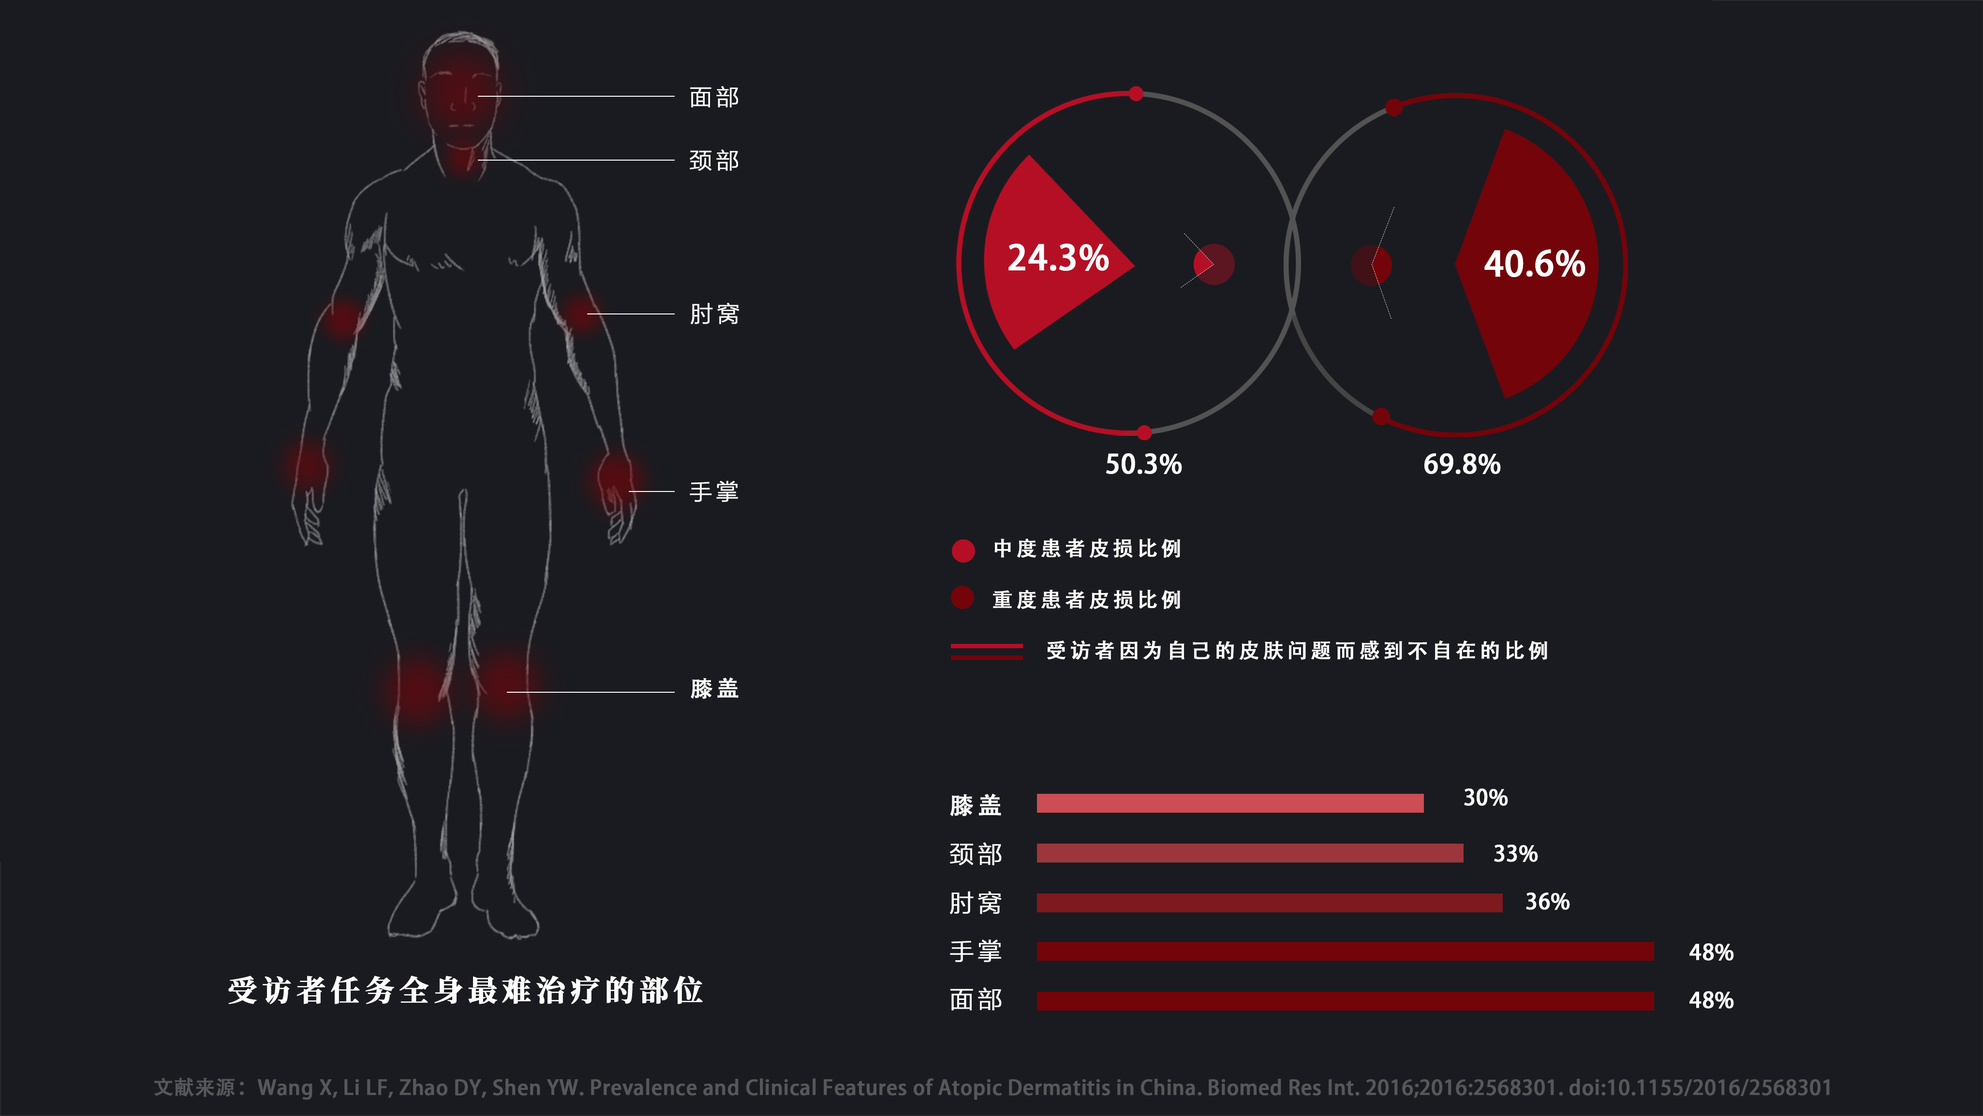
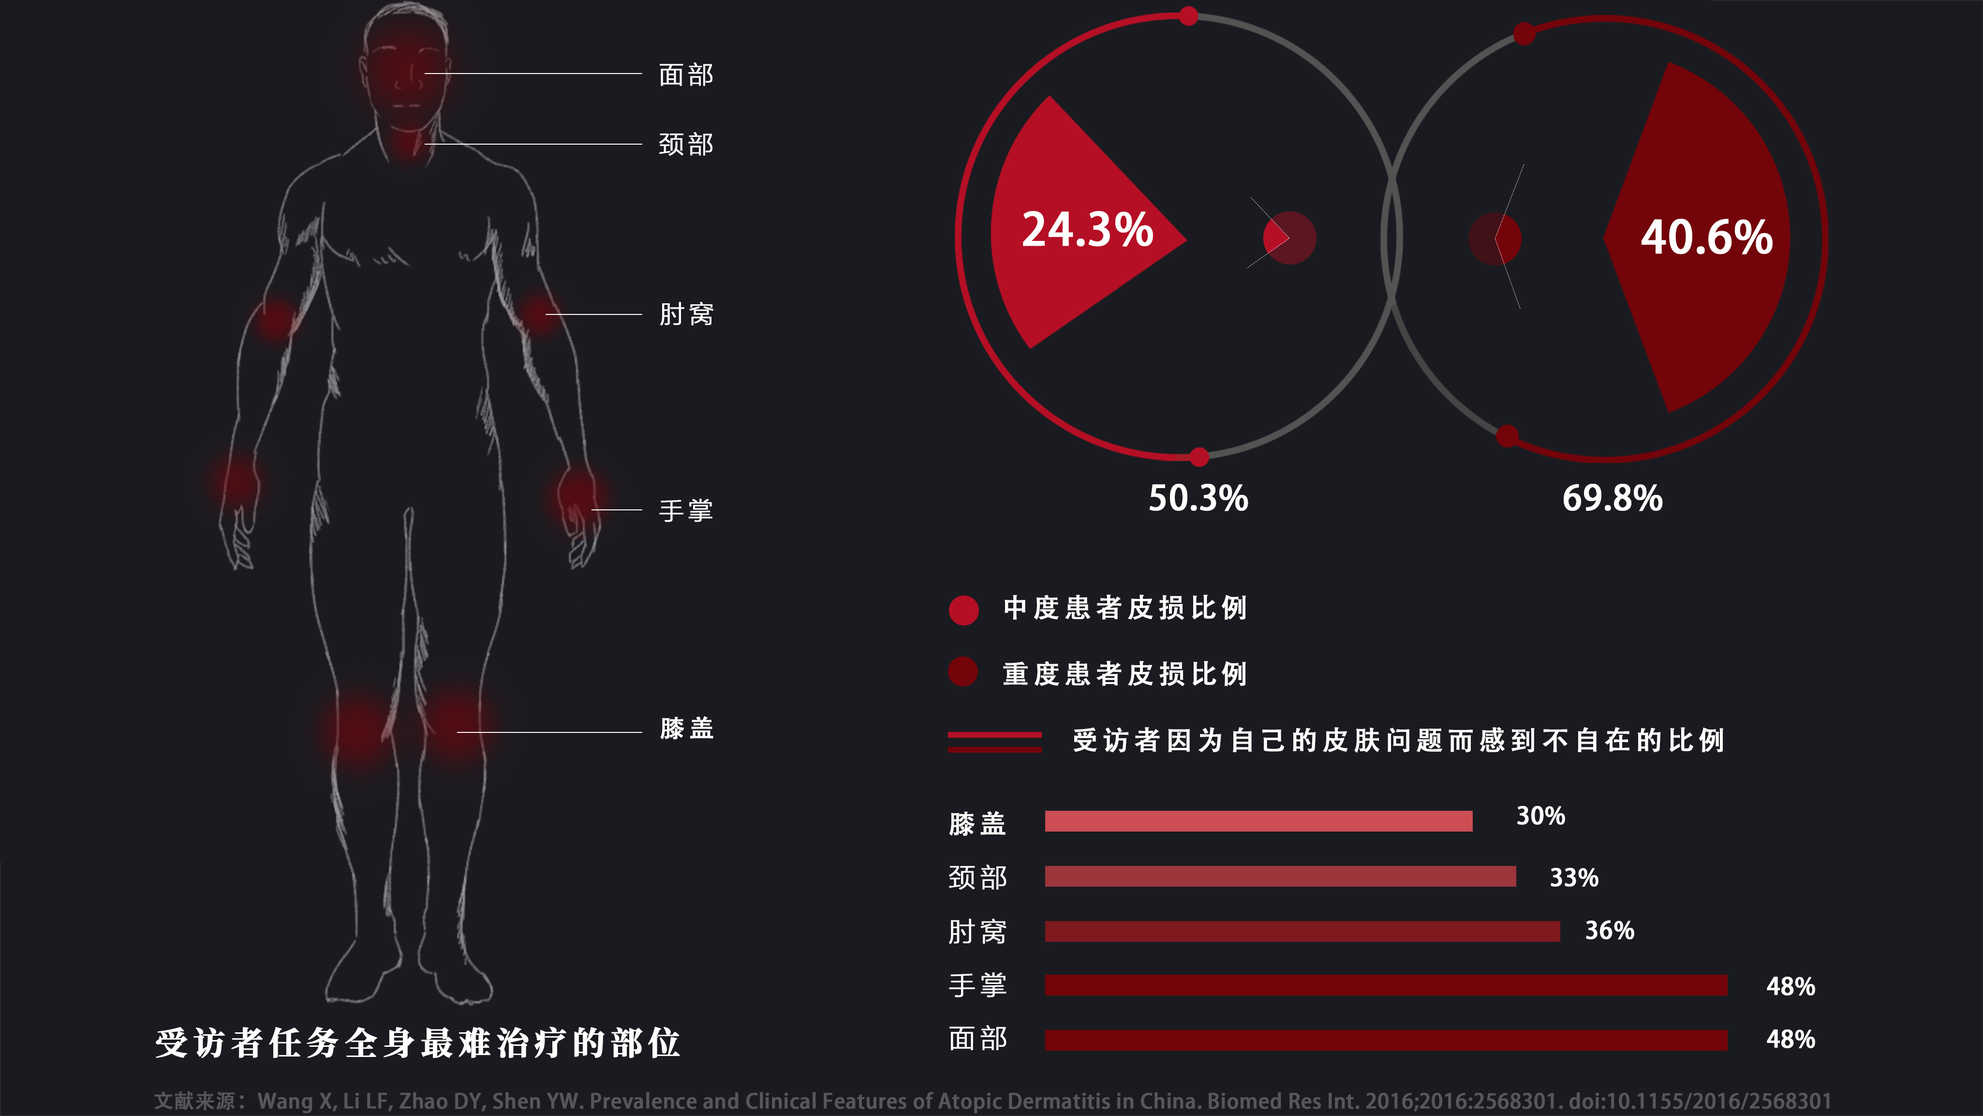
renew3

diff --git a/css/home-page.min.css b/css/home-page.min.css
@@ -1,1 +1,1 @@
-body{margin:auto}body .show{opacity:0}body>div{background-color:#1C1B21;width:100vw}body>div:nth-child(1)>div:nth-child(1){height:864px}body>div:nth-child(1)>div:nth-child(1) img{width:100vw}body>div:nth-child(1)>div:nth-child(2){overflow:hidden}body>div:nth-child(1)>div:nth-child(2)>div{width:1024px;margin:auto}body>div:nth-child(1)>div:nth-child(2)>div p{margin:auto;text-align:center;line-height:36px;font-size:16px;white-space:inherit;color:white;height:36px}body>div:nth-child(1)>div:nth-child(2)>div:nth-child(1){height:500px;margin-top:50px}body>div:nth-child(1)>div:nth-child(2)>div:nth-child(1) .lastp{text-align:right;margin-right:80px}body>div:nth-child(1)>div:nth-child(2)>div:nth-child(2) p{font-weight:bold;color:red}body>div:nth-child(1)>div:nth-child(2)>div:nth-child(2) .leftp{text-align:left}body>div:nth-child(1)>div:nth-child(2)>div:nth-child(2) .rightp{text-align:right}body>div:nth-child(1)>div:nth-child(2)>div:nth-child(2) .bigp{font-size:35px;font-weight:lighter}body>div:nth-child(1)>div:nth-child(2)>div:nth-child(2) .bigptwo{font-size:35px}body>div:nth-child(1)>div:nth-child(2)>div:nth-child(2) .bigest{font-weight:lighter;font-size:50px;height:60px}body>div:nth-child(1)>div:nth-child(2)>div:nth-child(3) p{width:724px}body>div:nth-child(1)>div:nth-child(3) img{width:1536px}body>div:nth-child(1)>div:nth-child(4){text-align:center}body>div:nth-child(1)>div:nth-child(4) p{margin:auto;text-align:center;line-height:36px;font-size:16px;white-space:inherit;color:white;height:36px}body>div:nth-child(2){position:fixed;z-index:-1;top:0px}body>div:nth-child(2) img{width:100vw;height:100%}body>div:nth-child(2) .blackOut1{width:100vw;height:100vh;display:none;opacity:1;position:fixed;top:0px;left:0;background-color:#272828;z-index:5}body .w{width:1024px;margin:0 auto}body .fr{text-align:right}body .fixedBanner1{height:100vh}body .box-2{margin-top:100vh;background-color:#272828;line-height:36px}body .box-2 .content-box .tags-box{text-align:center;color:#ffffff;font-size:18px;font-weight:800;padding-top:30px}body .box-2 .content-box .tags-box p{margin:auto}body .box-2 .content-box .article-box{padding:10px 150px;box-sizing:border-box;font-size:16px;color:#F5F6F8}body .box-2 .content-box .article-box p{display:block;opacity:1}body .box-2 .content-box .article-box .data-box{width:100%;margin:50px 0;display:flex;justify-content:center;flex-wrap:wrap}body .fixedBanner2{position:fixed;z-index:-2;top:0px}body .fixedBanner2 img{width:100vw;height:100vh}body .fixedBanner2 .blackOut2{width:100vw;height:100vh;display:none;opacity:1;position:fixed;top:0px;left:0;background-color:#272828;z-index:5}body .content{margin-top:100vh;width:100vw;background-color:#1C1B21}body .content .content-int{width:1252px;margin:0 auto;padding:10px 200px;box-sizing:border-box}body .samecontent{width:100vw;background-color:#1C1B21;margin-top:-48px;padding-bottom:30px}body .samecontent .samecon-int{width:1024px;margin:0 auto;padding:0 100px;box-sizing:border-box}body .bold{font-weight:bolder;margin-top:40px}body p{color:#fff;margin:48px 0}body p span{font-family:custom_27203;font-style:normal;font-weight:300;line-height:25px;display:block}body p span i{font-style:normal;color:#f5cb1c;font-weight:bold}body .msg1{width:100%;margin:60px 0;margin-bottom:110px}body .msg1 img{width:100%}body .msg2{width:100%;margin:60px 0;margin-bottom:110px}body .msg2 img{width:100%}body #ifr{height:330px}body .wujin{margin-bottom:-100px}body iframe{height:430px;width:590px;margin:50px 143px;left:0;right:0;margin-top:40px}body .img1{width:100%;position:fixed;z-index:-3;top:0px}body .img1 img{width:100%;height:100vh}body .img1 .blackOut3{width:100vw;height:100vh;display:none;opacity:1;position:fixed;top:0px;left:0;background-color:#272828;z-index:5}body .data-box2{padding:50px 315px;box-sizing:border-box;font-size:16px;color:#F5F6F8;margin-top:-20px}body .data-box2 .info-web{display:flex;justify-content:center;height:500px}body .data-box2 .info-web .scroll-box{overflow:hidden;width:407px;position:relative}body .data-box2 .info-web .scroll-box .scrollShow-info{height:500px;overflow-x:hidden;overflow-y:scroll;position:absolute;right:-18px;line-height:80px}body .data-box2 .info-web .scroll-box .scrollShow-info p{display:block;height:80px;margin:80px 0}body .data-box2 .info-web iframe{width:382px !important;height:405px !important;margin:0 !important}body .bigOne{width:100%;font-size:25px;line-height:33px;font-weight:bolder;text-align:center}body #ecircle{margin-bottom:0px}body .fa-navicon::before,body .fa-reorder::before,body .fa-bars::before{content:"\f0c9";background-color:#fff;background-position:center}body #open{width:60px;height:60px;display:block;border-radius:50%;border:1px solid #ccc;position:absolute;top:20px;left:-80px;background-color:#fff}body #open:hover{background-color:#1C1B21}body #open>i{position:absolute;left:24px;top:23px}#skip1,#skip2,#skip3,#skip4{height:100%;width:100%;display:inline-block;position:relative;z-index:-99;background-color:opacify}#aside{width:0px;height:100vh;position:fixed;top:0;right:0;background-color:#1C1B21}#aside>p{font-size:35px;width:100%;text-align:center}ul{list-style:none;padding:0;margin:0;width:100%}ul li{width:100%;height:141px;position:relative;background-position:center;background-size:100%;background-repeat:no-repeat}ul li>span{position:absolute;bottom:20px;right:-40px;display:block;width:25px;height:25px;border-radius:50%;text-align:center;line-height:25px;background-color:#fff}ul li:nth-child(1){background-image:url("../images/总标题.jpg")}ul li:nth-child(2){background-image:url("../images/小标题1.jpg")}ul li:nth-child(3){background-image:url("../images/小标题2.jpg")}ul li:nth-child(4){background-image:url("../images/小标题3.jpg")}footer{height:600px;width:100vw;background-image:url("../images/底部.jpg");background-position:-300px;color:white;display:flex;align-items:center}footer div{width:85%;height:70%;margin-left:20px}footer div h1{margin:auto}footer div p{margin:30px 0}.bktotop{width:100vw;height:200px;background-color:black;color:white;position:relative}.bktotop h2{margin:auto;text-align:center;padding-top:30px}.bktotop img{position:absolute;left:680px;top:80px}.tt{height:330px}
+body{margin:auto}body .show{opacity:0}body>div{background-color:#1C1B21;width:100vw}body>div:nth-child(1)>div:nth-child(1){height:864px}body>div:nth-child(1)>div:nth-child(1) img{width:100vw}body>div:nth-child(1)>div:nth-child(2){overflow:hidden}body>div:nth-child(1)>div:nth-child(2)>div{width:1024px;margin:auto}body>div:nth-child(1)>div:nth-child(2)>div p{margin:auto;text-align:center;line-height:36px;font-size:16px;white-space:inherit;color:white;height:36px}body>div:nth-child(1)>div:nth-child(2)>div:nth-child(1){height:500px;margin-top:50px}body>div:nth-child(1)>div:nth-child(2)>div:nth-child(1) .lastp{text-align:right;margin-right:80px}body>div:nth-child(1)>div:nth-child(2)>div:nth-child(2) p{font-weight:bold;color:red}body>div:nth-child(1)>div:nth-child(2)>div:nth-child(2) .leftp{text-align:left}body>div:nth-child(1)>div:nth-child(2)>div:nth-child(2) .rightp{text-align:right}body>div:nth-child(1)>div:nth-child(2)>div:nth-child(2) .bigp{font-size:35px;font-weight:lighter}body>div:nth-child(1)>div:nth-child(2)>div:nth-child(2) .bigptwo{font-size:35px}body>div:nth-child(1)>div:nth-child(2)>div:nth-child(2) .bigest{font-weight:lighter;font-size:50px;height:60px}body>div:nth-child(1)>div:nth-child(2)>div:nth-child(3) p{width:724px}body>div:nth-child(1)>div:nth-child(3) img{width:1536px}body>div:nth-child(1)>div:nth-child(4){text-align:center}body>div:nth-child(1)>div:nth-child(4) p{margin:auto;text-align:center;line-height:36px;font-size:16px;white-space:inherit;color:white;height:36px}body>div:nth-child(2){position:fixed;z-index:-1;top:0px}body>div:nth-child(2) img{width:100vw;height:100%}body>div:nth-child(2) .blackOut1{width:100vw;height:100vh;display:none;opacity:1;position:fixed;top:0px;left:0;background-color:#272828;z-index:5}body .w{width:1024px;margin:0 auto}body .fr{text-align:right;padding-right:120px;font-size:13px}body .fixedBanner1{height:100vh}body .box-2{margin-top:100vh;background-color:#272828;line-height:36px}body .box-2 .content-box .tags-box{text-align:center;color:#ffffff;font-size:18px;font-weight:800;padding-top:45px}body .box-2 .content-box .tags-box p{margin:auto}body .box-2 .content-box .article-box{padding:10px 150px;box-sizing:border-box;font-size:16px;color:#F5F6F8;padding-top:20px}body .box-2 .content-box .article-box p{display:block;opacity:1}body .box-2 .content-box .article-box .data-box{width:100%;margin:30px 0;display:flex;justify-content:center;flex-wrap:wrap}body .box-2 .content-box .article-box .data-box .data-title{width:100%;text-align:right;font-size:10px;padding-right:60px}body .fixedBanner2{position:fixed;z-index:-2;top:0px}body .fixedBanner2 img{width:100vw;height:100vh}body .fixedBanner2 .blackOut2{width:100vw;height:100vh;display:none;opacity:1;position:fixed;top:0px;left:0;background-color:#272828;z-index:5}body .content{margin-top:100vh;width:100vw;background-color:#1C1B21}body .content .content-int{width:1252px;margin:0 auto;padding:10px 200px;box-sizing:border-box}body .samecontent{width:100vw;background-color:#1C1B21;margin-top:-48px;padding-bottom:30px}body .samecontent .samecon-int{width:1024px;margin:0 auto;padding:0 100px;box-sizing:border-box}body .bold{font-weight:bolder;margin-top:40px}body p{color:#fff;margin:48px 0}body p span{font-family:custom_27203;font-style:normal;font-weight:300;line-height:25px;display:block}body p span i{font-style:normal;color:#f5cb1c;font-weight:bold}body .msg1{width:100%}body .msg1 img{width:100%}body .msg2{width:100%;margin:60px 0;margin-bottom:110px}body .msg2 img{width:100%}body #ifr{height:330px}body .wujin{margin-bottom:-100px}body iframe{height:420px;width:580px !important;margin:50px 143px;left:0;right:0;margin-top:40px}body .img1{width:100%;position:fixed;z-index:-3;top:0px}body .img1 img{width:100%;height:100vh}body .img1 .blackOut3{width:100vw;height:100vh;display:none;opacity:1;position:fixed;top:0px;left:0;background-color:#272828;z-index:5}body .data-box2{padding:50px 267px;box-sizing:border-box;font-size:16px;color:#F5F6F8;margin-top:-20px}body .data-box2 .info-web{display:flex;justify-content:center;height:500px}body .data-box2 .info-web .scroll-box{overflow:hidden;width:570px;position:relative;text-align:center}body .data-box2 .info-web .scroll-box .scrollShow-info{height:500px;overflow-x:hidden;overflow-y:scroll;position:absolute;right:-18px;line-height:80px}body .data-box2 .info-web .scroll-box .scrollShow-info p{display:block;height:80px;margin:80px 0}body .data-box2 .info-web iframe{width:370px !important;height:390px !important;margin:0 !important}body .bigOne{width:100%;font-size:25px;line-height:33px;font-weight:bolder;text-align:center}body #ecircle{margin-bottom:0px}body .fa-navicon::before,body .fa-reorder::before,body .fa-bars::before{content:"\f0c9";background-color:#fff;background-position:center}body #open{width:60px;height:60px;display:block;border-radius:50%;border:1px solid #ccc;position:absolute;top:20px;left:-80px;background-color:#fff}body #open:hover{background-color:#1C1B21}body #open>i{position:absolute;left:24px;top:23px}#skip1,#skip2,#skip3,#skip4{height:100%;width:100%;display:inline-block;position:relative;z-index:-99;background-color:opacify}#aside{width:0px;height:100vh;position:fixed;top:0;right:0;background-color:#1C1B21}#aside>p{font-size:35px;width:100%;text-align:center}ul{list-style:none;padding:0;margin:0;width:100%}ul li{width:100%;height:141px;position:relative;background-position:center;background-size:100%;background-repeat:no-repeat}ul li>span{position:absolute;bottom:20px;right:-40px;display:block;width:25px;height:25px;border-radius:50%;text-align:center;line-height:25px;background-color:#fff}ul li:nth-child(1){background-image:url("../images/总标题.jpg")}ul li:nth-child(2){background-image:url("../images/小标题1.jpg")}ul li:nth-child(3){background-image:url("../images/小标题2.jpg")}ul li:nth-child(4){background-image:url("../images/小标题3.jpg")}footer{height:600px;width:100vw;background-image:url("../images/底部.jpg");background-position:-300px;color:white;display:flex;align-items:center}footer div{width:85%;height:70%;margin-left:20px}footer div h1{margin:auto}footer div p{margin:30px 0}.bktotop{width:100vw;height:200px;background-color:black;color:white;display:flex;flex-wrap:wrap;justify-content:center}.bktotop h2{margin:auto;text-align:center;padding-top:30px;width:100%}.tt{height:310px}

diff --git a/scss/home-page.scss b/scss/home-page.scss
@@ -113,6 +113,8 @@ body {
     }
     .fr {
         text-align: right;
+        padding-right: 120px;
+        font-size: 13px;
     }
     .fixedBanner1{
         height: 100vh;
@@ -127,7 +129,7 @@ body {
                 color: #ffffff;
                 font-size: 18px;
                 font-weight: 800;
-                padding-top: 30px;
+                padding-top: 45px;
                 p {
                     margin: auto;
                 }
@@ -137,16 +139,23 @@ body {
                 box-sizing: border-box;
                 font-size: 16px;
                 color: #F5F6F8;
+                padding-top: 20px;
                 p {
                     display: block;
                     opacity: 1;
                 }
                 .data-box {
                     width: 100%;
-                    margin: 50px 0;
+                    margin: 30px 0;
                     display: flex;
                     justify-content: center;
                     flex-wrap: wrap;
+                    .data-title{
+                        width: 100%;
+                        text-align: right;
+                        font-size: 10px;
+                        padding-right: 60px;
+                    }
                 }
             }
         }
@@ -217,8 +226,6 @@ body {
     }
     .msg1 {
         width: 100%;
-        margin: 60px 0;
-        margin-bottom: 110px;
         img {
             width: 100%;
         }
@@ -238,10 +245,9 @@ body {
         margin-bottom: -100px;
     }
     iframe {
-        height: 430px;
-        width: 590px;
+        height: 420px;
+        width: 580px !important;
         margin: 50px 143px;
-        // position: absolute;
         left: 0;
         right: 0;
         margin-top: 40px;
@@ -269,7 +275,7 @@ body {
     }
     // 左边文字 右边数据图
     .data-box2 {
-        padding: 50px 315px;
+        padding: 50px 267px;
         box-sizing: border-box;
         font-size: 16px;
         color: #F5F6F8;
@@ -280,8 +286,9 @@ body {
             height: 500px;
             .scroll-box {
                 overflow: hidden;
-                width: 407px;
+                width: 570px;
                 position: relative;
+                text-align: center;
                 .scrollShow-info {
                     height: 500px;
                     overflow-x: hidden;
@@ -297,8 +304,8 @@ body {
                 }
             }
             iframe {
-                width: 382px !important;
-                height: 405px !important;
+                width: 370px !important;
+                height: 390px !important;
                 margin: 0 !important;
             }
         }
@@ -442,19 +449,17 @@ footer {
     height: 200px;
     background-color: black;
     color: white;
-    position: relative;
+    display: flex;
+    flex-wrap: wrap;
+    justify-content: center;
     h2 {
         margin: auto;
         text-align: center;
         padding-top: 30px;
-    }
-    img {
-        position: absolute;
-        left: 680px;
-        top: 80px;
+        width: 100%;
     }
 }
 
 .tt {
-    height: 330px;
+    height: 310px;
 }

diff --git a/html/chinaad.html b/html/chinaad.html
@@ -99,8 +99,8 @@
                 </p>
                 <div class="data-box">
                     <div class="info-web">
-                        <iframe src="https://dycharts.com/xshow/index.html?id=c_a8030be03404a190205c783e5c29aef1"
-                            width="600" height="456" scrolling="no" frameborder="0" align=""></iframe>
+                        <iframe src="https://dycharts.com/xshow/index.html?id=c_179650a33514dba5477add4469682f6f" width="500"
+                                height="380" scrolling="no" frameborder="0" align=""></iframe>
                     </div>
                     <div class="data-title">数据来源：知网公开数据整理</div>
                 </div>
@@ -188,8 +188,8 @@
                     睡眠不⾜会导致更⾼的焦虑、抑郁和多动症发病率。[4]
                 </span>
             </p>
-            <iframe id="circle" src="https://dycharts.com/xshow/index.html?id=c_a69b7489262a2c4ef4f07cb1e7661d1d"
-                width="600" height="453" scrolling="no" frameborder="0" align=""></iframe>
+            <iframe src="https://dycharts.com/xshow/index.html?id=c_0dc0d260d84aca34c812cf8a331ec6fb" width="600"
+                    height="453" scrolling="no" frameborder="0" align=""></iframe>
             <p>
                 <span>
                     持续的疲劳使得工作效率很难提高， 无法停止的抓挠让你难以完成任何任务。
@@ -338,7 +338,7 @@
         <div class="info-web">
             <div class="scroll-box">
                 <div class="scrollShow-info">
-                    <p>2017-12-16中国医疗保健国际交流促进会“特应性皮炎诊疗中心”落户哈尔滨</p>
+                    <p style="margin-top: 0px;padding-right: 15px;">2017-12-16中国医疗保健国际交流促进会“特应性皮炎诊疗中心”落户哈尔滨</p>
                     <p> 2019首届全国湿疹皮炎皮肤过敏学术会议</p>
                     <p> 2019 大范围关于“世界过敏日”暨“特应性皮炎关爱日”报道</p>
                     <p> 2020年5月关爱社区“中国AD之家”成立</p>
@@ -372,7 +372,7 @@
                 </span>
             </p>
             <iframe src="https://dycharts.com/xshow/index.html?id=c_abdf1b19582fa6e59b6264dc4c7d4e9b" width="600"
-                height="470" scrolling="no" frameborder="0" align=""></iframe>
+                    height="453" scrolling="no" frameborder="0" align=""></iframe>
             <iframe src="https://dycharts.com/xshow/index.html?id=c_6f0bbbe169953335196f0eededa4b8c7" width="600"
                 height="470" scrolling="no" frameborder="0" align=""></iframe>
             <p>

diff --git a/css/home-page.css b/css/home-page.css
@@ -129,6 +129,8 @@ body .w {
 
 body .fr {
   text-align: right;
+  padding-right: 120px;
+  font-size: 13px;
 }
 
 body .fixedBanner1 {
@@ -146,7 +148,7 @@ body .box-2 .content-box .tags-box {
   color: #ffffff;
   font-size: 18px;
   font-weight: 800;
-  padding-top: 30px;
+  padding-top: 45px;
 }
 
 body .box-2 .content-box .tags-box p {
@@ -158,6 +160,7 @@ body .box-2 .content-box .article-box {
   box-sizing: border-box;
   font-size: 16px;
   color: #F5F6F8;
+  padding-top: 20px;
 }
 
 body .box-2 .content-box .article-box p {
@@ -167,10 +170,17 @@ body .box-2 .content-box .article-box p {
 
 body .box-2 .content-box .article-box .data-box {
   width: 100%;
-  margin: 50px 0;
+  margin: 30px 0;
   display: flex;
   justify-content: center;
   flex-wrap: wrap;
+}
+
+body .box-2 .content-box .article-box .data-box .data-title {
+  width: 100%;
+  text-align: right;
+  font-size: 10px;
+  padding-right: 60px;
 }
 
 body .fixedBanner2 {
@@ -249,8 +259,6 @@ body p span i {
 
 body .msg1 {
   width: 100%;
-  margin: 60px 0;
-  margin-bottom: 110px;
 }
 
 body .msg1 img {
@@ -276,8 +284,8 @@ body .wujin {
 }
 
 body iframe {
-  height: 430px;
-  width: 590px;
+  height: 420px;
+  width: 580px !important;
   margin: 50px 143px;
   left: 0;
   right: 0;
@@ -309,7 +317,7 @@ body .img1 .blackOut3 {
 }
 
 body .data-box2 {
-  padding: 50px 315px;
+  padding: 50px 267px;
   box-sizing: border-box;
   font-size: 16px;
   color: #F5F6F8;
@@ -324,8 +332,9 @@ body .data-box2 .info-web {
 
 body .data-box2 .info-web .scroll-box {
   overflow: hidden;
-  width: 407px;
+  width: 570px;
   position: relative;
+  text-align: center;
 }
 
 body .data-box2 .info-web .scroll-box .scrollShow-info {
@@ -344,8 +353,8 @@ body .data-box2 .info-web .scroll-box .scrollShow-info p {
 }
 
 body .data-box2 .info-web iframe {
-  width: 382px !important;
-  height: 405px !important;
+  width: 370px !important;
+  height: 390px !important;
   margin: 0 !important;
 }
 
@@ -492,21 +501,18 @@ footer div p {
   height: 200px;
   background-color: black;
   color: white;
-  position: relative;
+  display: flex;
+  flex-wrap: wrap;
+  justify-content: center;
 }
 
 .bktotop h2 {
   margin: auto;
   text-align: center;
   padding-top: 30px;
-}
-
-.bktotop img {
-  position: absolute;
-  left: 680px;
-  top: 80px;
+  width: 100%;
 }
 
 .tt {
-  height: 330px;
+  height: 310px;
 }
